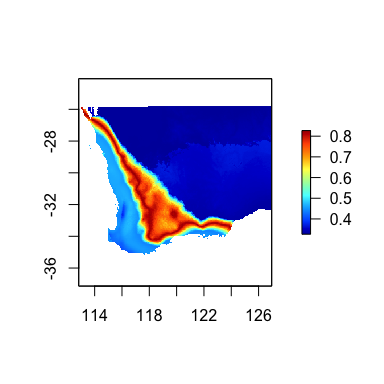
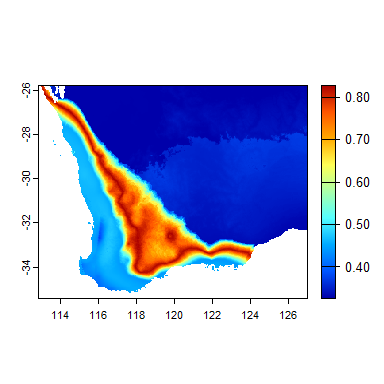
terra functions in readme

diff --git a/README.md b/README.md
@@ -1,4 +1,5 @@
 
+<!-- DO NOT EDIT BY HAND! README.Rmd is generated from README.md. Please edit that file. -->
 
 # gdm <img src="man/figures/gdmLogo.png" align="right" width="120" />
 
@@ -16,14 +17,14 @@ Generalized Dissimilarity Models.
 The **gdm** package is available on CRAN, development versions are
 available on GitHub.
 
--   Install from CRAN:
+- Install from CRAN:
 
 ``` r
 install.packages("gdm")
 ```
 
--   Install latest development version from GitHub (requires
-    [devtools](https://github.com/r-lib/devtools) package):
+- Install latest development version from GitHub (requires
+  [devtools](https://github.com/r-lib/devtools) package):
 
 ``` r
 if (!require("devtools")) {
@@ -34,34 +35,80 @@ devtools::install_github("fitzLab-AL/gdm")
 
 # Package Citation
 
-Fitzpatrick MC, Mokany K, Manion G, Nieto-Lugilde D, Ferrier S. (2022)
+Fitzpatrick MC, Mokany K, Manion G, Nieto-Lugilde D, Ferrier S. (2021)
 gdm: Generalized Dissimilarity Modeling. R package version 1.5.
 
 # Getting Started
 
-GDM has been used in many published studies. In addition to working through the examples here and those throughout the package documentation, we recommend reading these publications for background information:
+GDM has been used in many published studies. In addition to working
+through the examples here and those throughout the package
+documentation, we recommend reading these publications for background
+information:
 
-Ferrier S, Manion G, Elith J, Richardson, K (2007) Using generalized dissimilarity modelling to analyse and predict patterns of beta diversity in regional biodiversity assessment. Diversity & Distributions 13: 252-264. [https://doi.org/10.1111/j.1472-4642.2007.00341.x](https://doi.org/10.1111/j.1472-4642.2007.00341.x)
+Ferrier S, Manion G, Elith J, Richardson, K (2007) Using generalized
+dissimilarity modelling to analyse and predict patterns of beta
+diversity in regional biodiversity assessment. Diversity & Distributions
+13: 252-264.<https://doi.org/10.1111/j.1472-4642.2007.00341.x>
 
-Mokany K, Ware C, Woolley, SNC, Ferrier S, Fitzpatrick MC (2022) A working guide to harnessing generalized dissimilarity modelling for biodiversity analysis and conservation assessment. Global Ecology and Biogeography, 31, 802– 821. [https://doi.org/10.1111/geb.13459](https://doi.org/10.1111/geb.13459) 
+Mokany K, Ware C, Woolley, SNC, Ferrier S, Fitzpatrick MC (2022) A
+working guide to harnessing generalized dissimilarity modelling for
+biodiversity analysis and conservation assessment. Global Ecology and
+Biogeography, 31, 802– 821. <https://doi.org/10.1111/geb.13459>
 
 # Introduction
 
-The R package **gdm** implements Generalized Dissimilarity Modeling [(Ferrier et al. 2007)](https://doi.org/10.1111/j.1472-4642.2007.00341.x) to analyze and map spatial patterns of biodiversity. GDM models biological variation as a function of environment and geography using distance matrices – specifically by relating biological dissimilarity between sites to how much sites differ in their environmental conditions (environmental distance) and how isolated they are from one another (geographical distance). Here we demonstrate how to fit, apply, and interpret GDM in the context of analyzing and mapping species-level patterns. GDM also can be used to model other biological levels of organization, notably genetic [(Fitzpatrick & Keller 2015)](https://doi.org/10.1111/ele.12376), phylogenetic [(Rosauer et al. 2014)](https://doi.org/10.1111/j.1600-0587.2013.00466.x), or function/traits [(Thomassen et al. 2010)](https://doi.org/10.1111/j.1752-4571.2009.00093.x), and the approaches for doing so are largely identical to the species-level case with the exception of using a different biological dissimilarity metric depending on the type of response variable.  
+The R package **gdm** implements Generalized Dissimilarity Modeling
+[Ferrier et al. 2007](https://doi.org/10.1111/j.1472-4642.2007.00341.x)
+to analyze and map spatial patterns of biodiversity. GDM models
+biological variation as a function of environment and geography using
+distance matrices – specifically by relating biological dissimilarity
+between sites to how much sites differ in their environmental conditions
+(environmental distance) and how isolated they are from one another
+(geographical distance). Here we demonstrate how to fit, apply, and
+interpret GDM in the context of analyzing and mapping species-level
+patterns. GDM also can be used to model other biological levels of
+organization, notably genetic [Fitzpatrick & Keller
+2015](https://doi.org/10.1111/ele.12376), phylogenetic [Rosauer et
+al. 2014](https://doi.org/10.1111/j.1600-0587.2013.00466.x), or
+function/traits [Thomassen et
+al. 2010](https://doi.org/10.1111/j.1752-4571.2009.00093.x), and the
+approaches for doing so are largely identical to the species-level case
+with the exception of using a different biological dissimilarity metric
+depending on the type of response variable.
 
 ## Preparing the data for GDM: The site-pair table.
 
-The initial step in fitting a generalized dissimilarity model is to combine the biological and environmental data into "site-pair" table format using the `formatsitepair` function. 
+The initial step in fitting a generalized dissimilarity model is to
+combine the biological and environmental data into “site-pair” table
+format using the `formatsitepair` function.
 
-GDM can use several data formats as input. Most common are site-by-species tables (sites in rows, species across columns) for the response and site-by-environment tables (sites in rows, predictors across columns) as the predictors, though distance matrices and rasters also are accommodated as demonstrated below. 
+GDM can use several data formats as input. Most common are
+site-by-species tables (sites in rows, species across columns) for the
+response and site-by-environment tables (sites in rows, predictors
+across columns) as the predictors, though distance matrices and rasters
+also are accommodated as demonstrated below.
 
-The **gdm** package comes with two example biological data sets and two example environmental data sets in a number of formats. Example data include:
-
-  - `southwest`: A data frame that contains x-y coordinates, 10 columns of predictors (five soil and five bioclimatic variables), and occurrence data for 900+ species of plants from southwest Australia (representing a subset of the data used in [@fitzpatrick_2013]). Note that the format of the `southwest` table is an x-y species list (i.e., `bioFormat = 2`, see below) where there is one row *per species record rather than per site*. These biological data are similar to what would be obtained from online databases such as [GBIF](https://www.gbif.org/).
-  
-  - `gdmDissim`: A pairwise biological dissimilarity matrix derived from the species data provided in `southwest`. `gdmDissim` is provided to demonstrate how to proceed when you when you want to fit GDM using an existing biological distance matrix (e.g., pairwise Fst) as the response variable (i.e., `bioFormat = 3`, see below). Note however that distance matrices can also be used as predictors (e.g., to model compositional variation in one group as a function of compositional variation in another group [(Jones et al 2013)](https://doi.org/10.1111/1365-2745.12053).
-  
-  - `swBioclims`: a raster stack of the five bioclimatic predictors provided in the `southwest` data.
+The **gdm** package comes with two example biological data sets and two
+example environmental data sets in a number of formats. Example data
+include: - `southwest`: A data frame that contains x-y coordinates, 10
+columns of predictors (five soil and five bioclimatic variables), and
+occurrence data for 900+ species of plants from southwest Australia
+(representing a subset of the data used in \[@fitzpatrick_2013\]). Note
+that the format of the `southwest` table is an x-y species list (i.e.,
+`bioFormat = 2`, see below) where there is one row *per species record
+rather than per site*. These biological data are similar to what would
+be obtained from online databases such as
+[GBIF](https://www.gbif.org/). - `gdmDissim`: A pairwise biological
+dissimilarity matrix derived from the species data provided in
+`southwest`. `gdmDissim` is provided to demonstrate how to proceed when
+you when you want to fit GDM using an existing biological distance
+matrix (e.g., pairwise Fst) as the response variable (i.e.,
+`bioFormat = 3`, see below). Note however that distance matrices can
+also be used as predictors (e.g., to model compositional variation in
+one group as a function of compositional variation in another group
+[Jones et al 2013](https://doi.org/10.1111/1365-2745.12053). -
+`swBioclims`: a raster stack of the five bioclimatic predictors provided
+in the `southwest` data.
 
 Note that for all input data the rows and their order must match in the
 biological and environmental data frames and must not include NAs. This
@@ -116,8 +163,6 @@ gdmTab <- formatsitepair(bioData=sppTab,
                          sppColumn="species", 
                          siteColumn="site", 
                          predData=envTab)
-#> [1] "Site weighting type: Equal"
-#> [1] "Site-pair table created with 4371 rows (94 unique sites) and 26 columns (10 environmental variables)."
 ```
 
     #>        distance weights s1.xCoord s1.yCoord s2.xCoord s2.yCoord s1.awcA
@@ -204,8 +249,6 @@ gdmTab.dis <- formatsitepair(bioData=gdmDissim,
                              YColumn="Lat", 
                              predData=envTab, 
                              siteColumn="site")
-#> [1] "Site weighting type: Equal"
-#> [1] "Site-pair table created with 4371 rows (94 unique sites) and 26 columns (10 environmental variables)."
 ```
 
     #>        distance weights s1.xCoord s1.yCoord s2.xCoord s2.yCoord s1.awcA
@@ -232,7 +275,7 @@ species list (`bioFormat=2`).
 
 ``` r
 # environmental raster data for sw oz
-swBioclims <- raster::stack(system.file("./extdata/swBioclims.grd", package="gdm"))
+swBioclims <- terra::rast(system.file("./extdata/swBioclims.grd", package="gdm"))
 
 gdmTab.rast <- formatsitepair(bioData=sppTab, 
                               bioFormat=2, # x-y spp list
@@ -241,8 +284,6 @@ gdmTab.rast <- formatsitepair(bioData=sppTab,
                               sppColumn="species",
                               siteColumn="site",
                               predData=swBioclims) #raster stack
-#> [1] "Site weighting type: Equal"
-#> [1] "Site-pair table created with 4371 rows (94 unique sites) and 16 columns (5 environmental variables)."
 ```
 
 Because some sites might not overlap with the rasters, we should check
@@ -297,8 +338,6 @@ gdmTab.rw <- formatsitepair(bioData=sppTab,
                             siteColumn="site", 
                             predData=envTab, 
                             weightType="richness")
-#> [1] "Site weighting type: Richness"
-#> [1] "Site-pair table created with 4371 rows (94 unique sites) and 26 columns (10 environmental variables)."
 
 # weights based on richness (number of species records)
 gdmTab.rw[1:5, 1:5]
@@ -321,8 +360,6 @@ gdmTab.sf <- formatsitepair(bioData=sppTab,
                             siteColumn="site", 
                             predData=envTab, 
                             sppFilter=10)
-#> [1] "Site weighting type: Equal"
-#> [1] "Site-pair table created with 4095 rows (91 unique sites) and 26 columns (10 environmental variables)."
 ```
 
 ## GDM fitting
@@ -359,22 +396,22 @@ gdm.1 <- gdm(data=gdmTab, geo=TRUE)
 The `summary` function provides an overview of the model, the most
 important items to note are:
 
--   Percent Deviance Explained: goodness-of-fit
--   Intercept: expected dissimilarity between sites that do not differ
-    in the predictors
--   Summary of the fitted I-splines for each predictor, including the
-    values of the coefficients and their sum. The sum indicates the
-    amount of compositional turnover associated with that variable,
-    holding all other variables constant. I-spline summaries are order
-    by coefficient sum. Variables with all coefficients=0 have no
-    relationship with the modeled biological pattern.
+- Percent Deviance Explained: goodness-of-fit
+- Intercept: expected dissimilarity between sites that do not differ in
+  the predictors
+- Summary of the fitted I-splines for each predictor, including the
+  values of the coefficients and their sum. The sum indicates the amount
+  of compositional turnover associated with that variable, holding all
+  other variables constant. I-spline summaries are order by coefficient
+  sum. Variables with all coefficients=0 have no relationship with the
+  modeled biological pattern.
 
 ``` r
 summary(gdm.1)
 #> [1] 
 #> [1] 
 #> [1] GDM Modelling Summary
-#> [1] Creation Date:  Wed Dec  8 13:15:12 2021
+#> [1] Creation Date:  Sun Mar 17 01:32:03 2024
 #> [1] 
 #> [1] Name:  gdm.1
 #> [1] 
@@ -655,9 +692,11 @@ the current and future climate raster stacks. Th resulting map shows the
 expected magnitude of change in vegetation composition, which can be
 interpreted as a biologically-scaled metric of climate stress.
 
+    #> Warning: package 'colorRamps' was built under R version 4.3.3
+
 ``` r
 timePred <- predict(gdm.rast, swBioclims, time=T, predRasts=futRasts)
-raster::plot(timePred, col=rgb.tables(1000))
+terra::plot(timePred, col=rgb.tables(1000))
 ```
 
 <div class="figure">
@@ -691,7 +730,7 @@ We then use the `gdm.transform` function to rescale the rasters.
 
 ``` r
 transRasts <- gdm.transform(model=gdmRastMod, data=swBioclims)
-raster::plot(transRasts, col=rgb.tables(1000))
+terra::plot(transRasts, col=rgb.tables(1000))
 ```
 
 <img src="man/figures/README-transformGDM-1.png" width="100%" />
@@ -712,30 +751,28 @@ expected plant species composition (in other words, cells with similar
 colors are expected to contain similar plant communities).
 
 ``` r
+
 # Get the data from the gdm transformed rasters as a table
-rastDat <- na.omit(raster::getValues(transRasts))
+# rastDat <- na.omit(terra::values(transRasts))
 
 # The PCA can be fit on a sample of grid cells if the rasters are large
-rastDat <- raster::sampleRandom(transRasts, 50000) 
+rastDat <- terra::spatSample(transRasts, 50000, na.rm = TRUE) 
 
 # perform the principle components analysis
 pcaSamp <- prcomp(rastDat)
  
 # Predict the first three principle components for every cell in the rasters
 # note the use of the 'index' argument
-pcaRast <- raster::predict(transRasts, pcaSamp, index=1:3)
+pcaRast <- terra::predict(transRasts, pcaSamp, index=1:3)
 
 # scale the PCA rasters to make full use of the colour spectrum
-pcaRast[[1]] <- (pcaRast[[1]]-pcaRast[[1]]@data@min) /
-  (pcaRast[[1]]@data@max-pcaRast[[1]]@data@min)*255
-pcaRast[[2]] <- (pcaRast[[2]]-pcaRast[[2]]@data@min) /
-  (pcaRast[[2]]@data@max-pcaRast[[2]]@data@min)*255
-pcaRast[[3]] <- (pcaRast[[3]]-pcaRast[[3]]@data@min) /
-  (pcaRast[[3]]@data@max-pcaRast[[3]]@data@min)*255
+pcaRast[[1]] <- terra::app(pcaRast[[1]], fun = scales::rescale, to = c(0, 255))
+pcaRast[[2]] <- terra::app(pcaRast[[2]], fun = scales::rescale, to = c(0, 255))
+pcaRast[[3]] <- terra::app(pcaRast[[3]], fun = scales::rescale, to = c(0, 255))
 
 # Plot the three PCA rasters simultaneously, each representing a different colour 
 #  (red, green, blue)
-raster::plotRGB(pcaRast, r=1, g=2, b=3)
+terra::plotRGB(pcaRast, r=1, g=2, b=3)
 ```
 
 <div class="figure">
